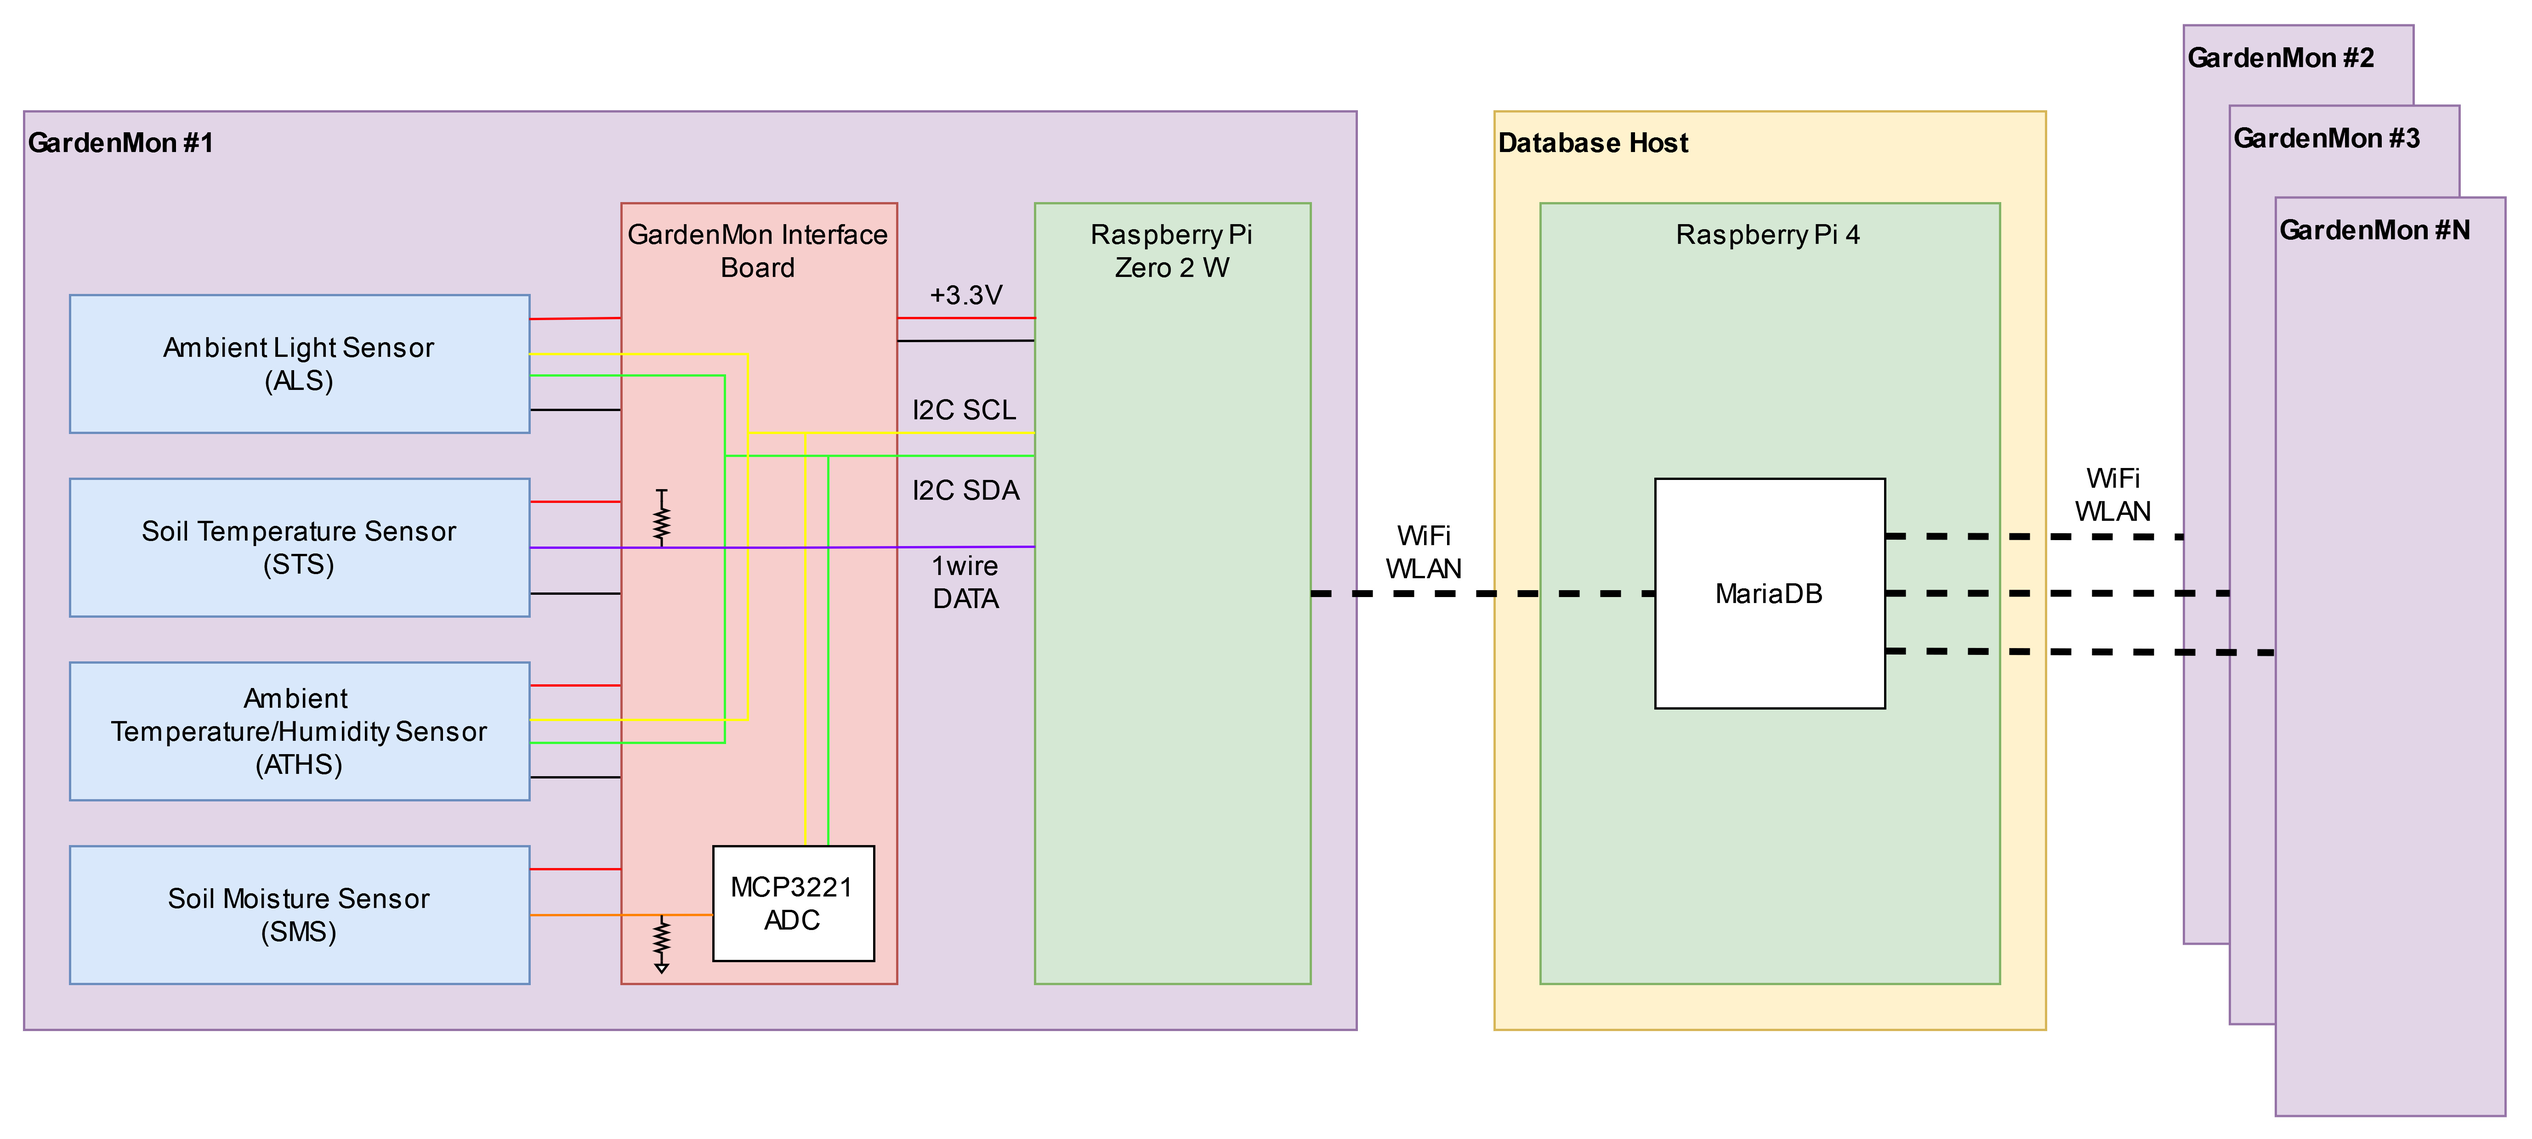
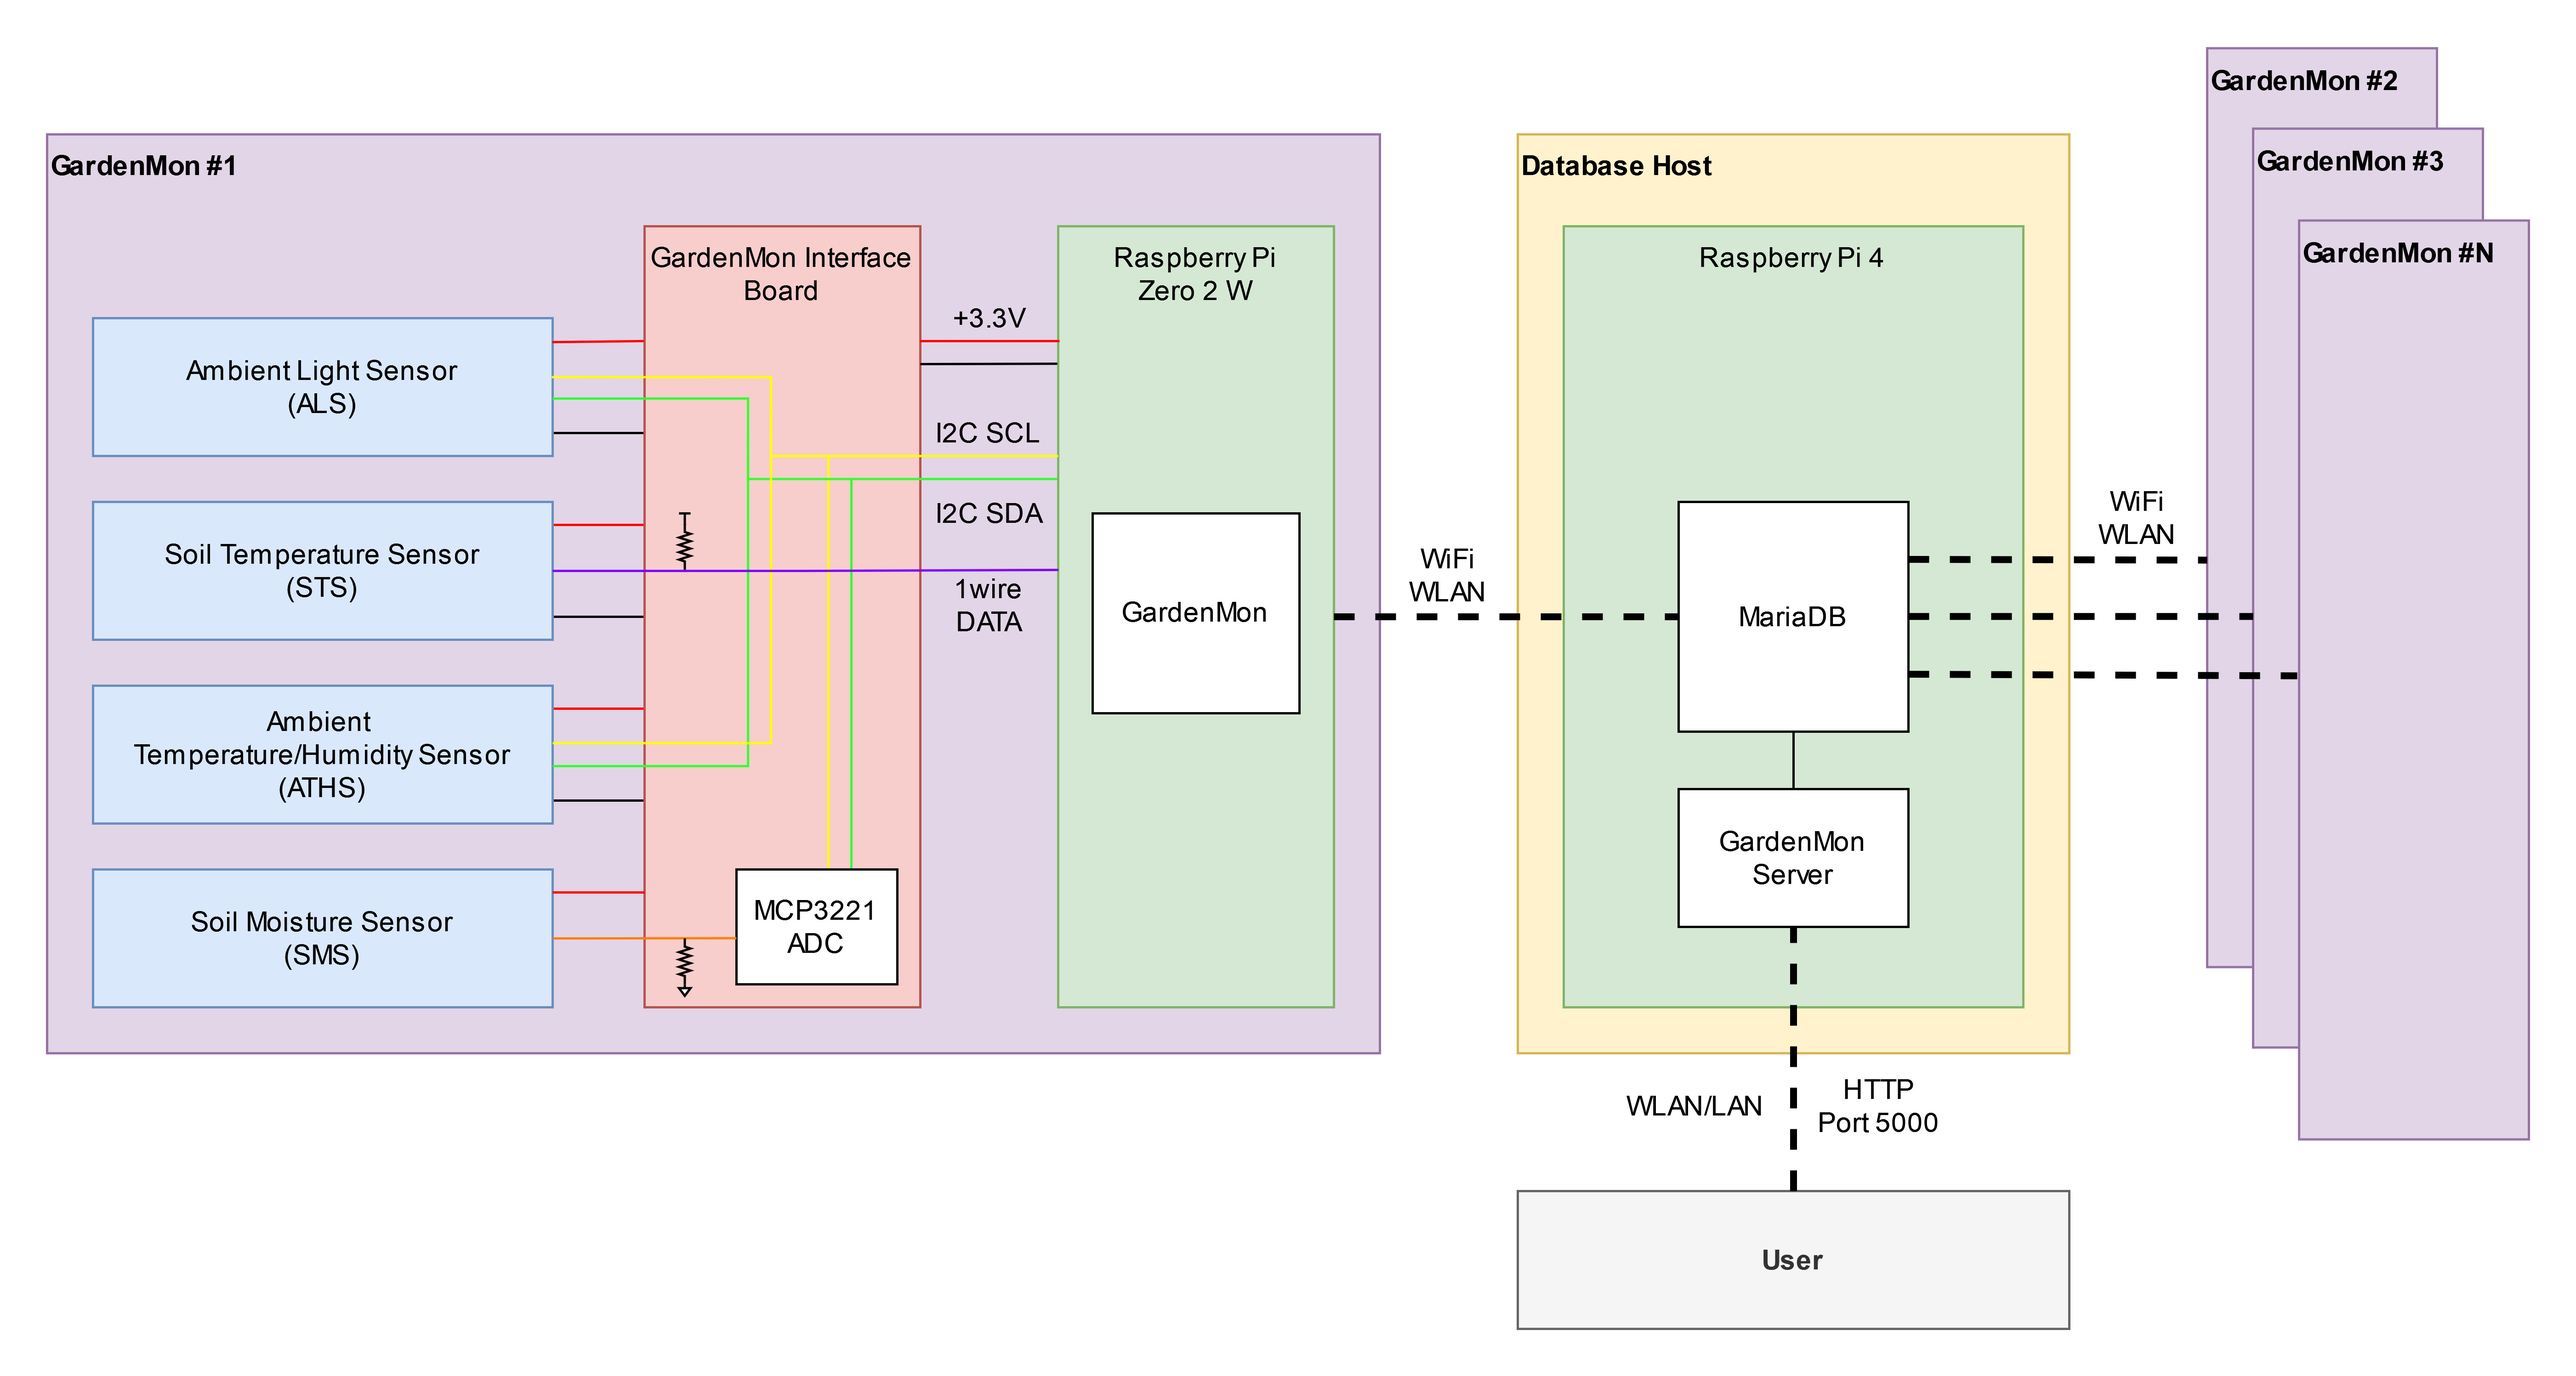
update docs

Changed region(s): [[0.0, 0.0, 0.9989, 0.9935], [0.4058, 0.1552, 0.4995, 0.2484]]

diff --git a/README.md b/README.md
@@ -6,7 +6,6 @@
     - [Raspberry Pi](#raspberry-pi)
     - [Sensors](#sensors)
     - [GardenMon Interface Board](#gardenmon-interface-board)
-    - [Connections](#connections)
   - [Software](#software)
     - [Raspberry Pi Setup](#raspberry-pi-setup)
       - [Further Setup](#further-setup)
@@ -42,10 +41,6 @@ _\* SMS analog input is converted via MCP3221 ADC on the GardenMon Interface Boa
 ### GardenMon Interface Board
 
 The GardenMon uses the [GardenMon Interface Board](https://github.com/anthonyneedles/gardenmon-interfaceboard) for connecting the sensors to the RPi.
-
-### Connections
-
-![rpi_zero2w_pinout.png](./docs/rpi_zero2w_pinout.png)
 
 ## Software
 
@@ -103,8 +98,8 @@ Should be found on Windows at `\\gardenmon\gardenmon_logs`.
 ### Database
 
 In addition to being written to CSVs, data is published to a database.
-
-See [docs/mariadb.md](docs/mariadb.md) for info on setting up the database with MariaDB.
+The GardenMon Server then serves this data.
+See [gardenmon-server](https://github.com/anthonyneedles/gardenmon-server) for more info.
 
 ### Useful Commands
 
